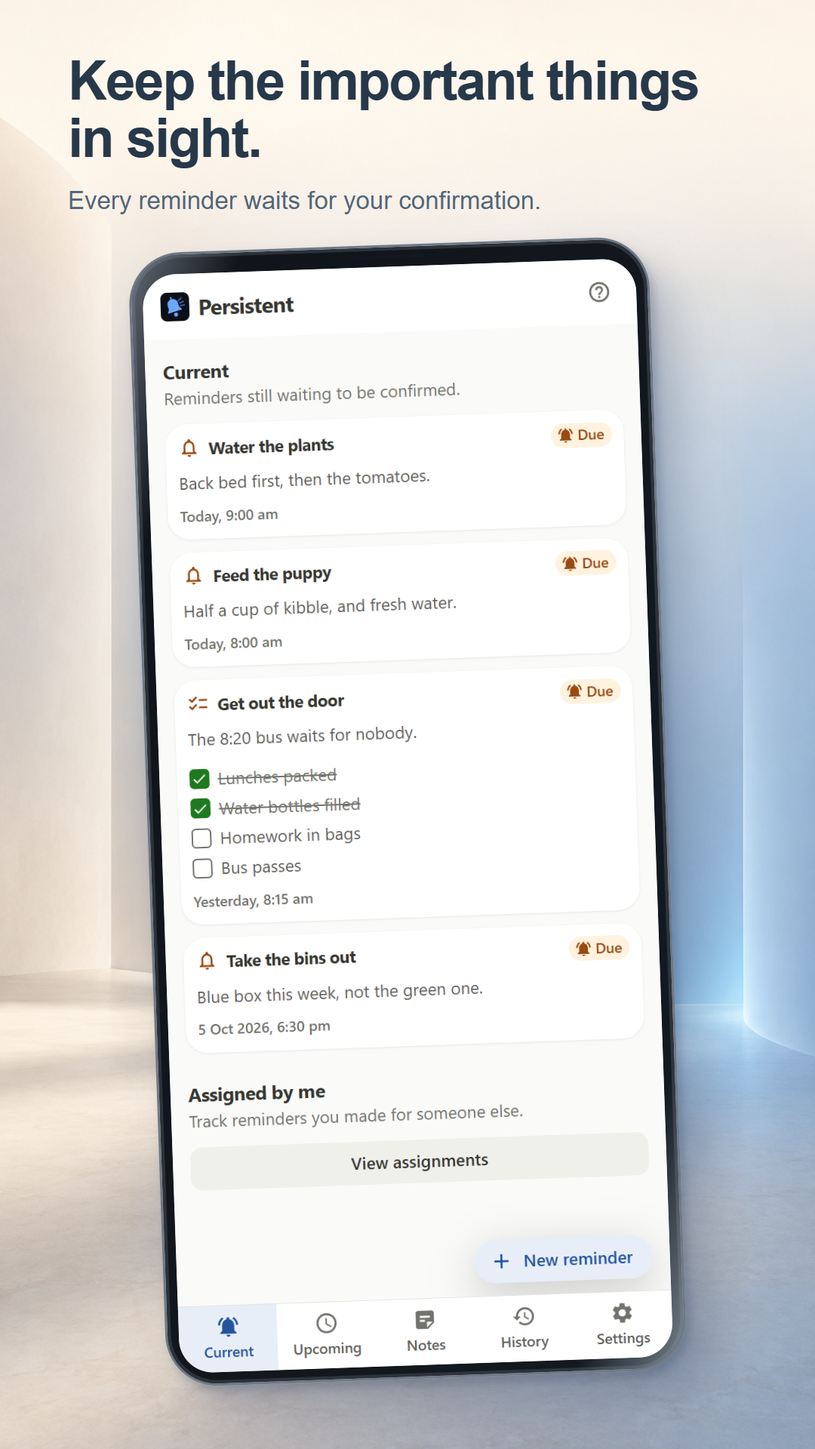
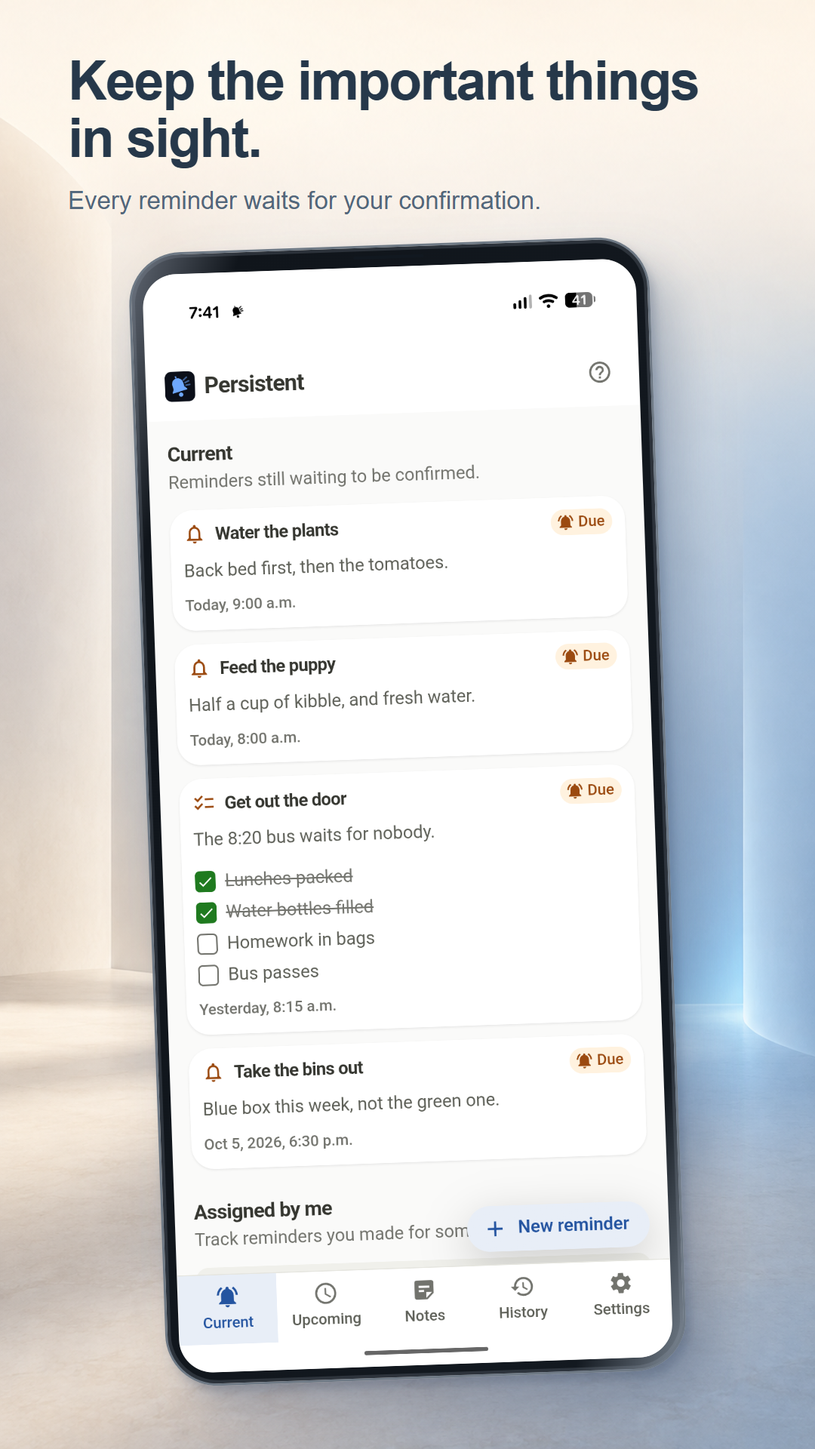
Refresh Play screenshots with native notifications and escalation
Capture all eight views on the isolated Pixel demo app with real status and gesture bars. Put returning notifications and ignored-reminder escalation near the start of the carousel, without duplicate reminders, unrelated notification icons, or theme names in image copy.

Update the repeatable capture workflow, listing gallery, root embeds, mobile guidance and screenshot skill. Reviewed desktop and notification contracts, auth/data isolation, environment settings, build descriptors and script comments. Native device data stays synthetic; no personal app data or domain queries change. Store checks and repository validation pass. Align the development SDK with the existing Android overlay.

diff --git a/scripts/dev/render-store-assets.ts b/scripts/dev/render-store-assets.ts
@@ -42,7 +42,7 @@ const review = `<!doctype html><html lang="en"><meta charset="utf-8"><title>Pers
 <style>
 * { box-sizing: border-box; } body { margin: 0; padding: 28px; width: 1440px; height: 730px; background: #eef0f2; color: #26384a; font: 16px Arial, sans-serif; }
 h1 { font-size: 26px; margin: 0 0 16px; } h2 { font-size: 20px; margin: 20px 0 12px; }
-.play { display: grid; grid-template-columns: repeat(6,1fr); gap: 14px; }
+.play { display: grid; grid-template-columns: repeat(${manifest.play.length},1fr); gap: 14px; }
 .desktop { display: grid; grid-template-columns: repeat(4,1fr); gap: 14px; }
 figure { margin: 0; } img { width: 100%; display: block; border-radius: 6px; }
 .play img { height: 390px; object-fit: contain; } .desktop img { height: 178px; object-fit: contain; }

diff --git a/scripts/dev/store-assets.ts b/scripts/dev/store-assets.ts
@@ -92,6 +92,7 @@ function check(): void {
     if (store !== 'play' && store !== 'microsoft') continue
     if (selectedStore && selectedStore !== store) continue
     if (shots.length < 4) throw new Error(`${store}: expected at least four curated screenshots`)
+    if (store === 'play' && shots.length > 8) throw new Error('play: the carousel supports at most eight screenshots')
     for (const shot of shots) {
       const png = readFileSync(resolve('store-assets', shot.file))
       const { width, height } = validateStoreImage(png, store)

diff --git a/store-assets/README.md b/store-assets/README.md
@@ -20,22 +20,86 @@ Sign in to that account on the local development origin. The development email-c
 
 ## Google Play
 
-Use the existing shared Paseo tab. Set its viewport to **448 x 998 CSS pixels**. Capture these six scenarios in manifest order:
+Use the isolated demo Android app on the physical phone, following the native
+capture setup below. Capture the full display for all eight images, including the
+real status area and gesture bar. Both bars must be readable against the selected
+theme, and unrelated notification icons must be absent. Do not add simulated
+system chrome or hide another app's notifications without permission. Capture
+these six app scenarios; the manifest determines final carousel order:
 
 1. Current, Enjoy Light. The plants, puppy, and part-completed morning checklist are visible.
 2. Open “Get out the door” in its reading dialog, Enjoy Dark. Do not toggle items or Done.
 3. Edit “Take vitamin D”, Enjoy Light, showing the synthetic medicine name and 1000 IU dose. Do not save.
-4. Create a draft reminder and open Share, Enjoy Dark. Stage `alex@example.test` in the dialog without saving or sending an invitation. Use `browser_type` for controlled fields and verify their state; `browser_fill` can report success without updating React state.
+4. Create a draft reminder and open Share, Enjoy Dark. Stage `alex@example.test` in the dialog without saving or sending an invitation. Use ordinary input or the existing debug WebView endpoint for controlled fields and verify their state.
 5. Notes, Enjoy Light, showing “Trip packing”.
 6. Assigned by me, Enjoy Dark, showing the completed synthetic parcel pickup.
 
-Save the PNG image block from each Paseo screenshot to the `source` path in the manifest. The helper accepts base64 on stdin: `node --import tsx scripts/dev/store-assets.ts save store-assets/raw/android/...png`. It never logs image data. Keep raw captures alongside the final exports so future caption/frame edits do not require recapturing the UI.
+The final carousel also includes the real notification shade and alarm described
+below, immediately after Current, for eight images total. Eight is the Play
+carousel limit. Keep marketing copy focused on the feature; do not put theme
+names in the exported images. The notification image leads with the defining
+behavior: swiping a reminder away does not complete it, and it returns until the
+user explicitly confirms completion.
+
+Save each full native capture to the `source` path in the manifest after the RGB conversion below. For Paseo composition exports, the helper accepts base64 on stdin: `node --import tsx scripts/dev/store-assets.ts save store-assets/raw/android/...png`. It never logs image data. Keep raw captures alongside the final exports so future caption/frame edits do not require recapturing the UI.
 
 Run `npm run shots:render`. Navigate the Paseo tab to each generated HTML layout through Vite, for example `http://localhost:<web-port>/@fs/workspace/store-assets/render/00-current-light.html`. Set **720 x 1280 CSS pixels**, wait for the captured image to load, then screenshot. On the current Windows Paseo host, DPR 1.5 produces **1080 x 1920**. Check actual dimensions, rather than assuming the host's DPR. If another host differs, adjust the CSS viewport and renderer canvas together to produce the same export dimensions.
 
 The mockups use a small alternating angle and reusable CSS phone frame. The app pixels come exclusively from the raw screenshots. The saved background and generation prompt are in `marketing/`; reuse them for consistency. Google recommends avoiding device imagery and skew, but this carousel deliberately includes those stylized mockups at Ryan's request.
 
 After inspection, run `npm run shots:sync`. It validates all exports, copies the curated Play files into `../apps/mobile/store/graphics/screenshots/`, and removes superseded PNGs from that upload directory. README embeds the same files. Preserve native permission demonstration videos, which serve a separate purpose.
+
+### Real Android capture setup and native scenarios
+
+Use an explicitly authorized physical-device session and the `test-android-device`
+skill. Read the shared home-devices guide before connecting to `phone.home`;
+wireless debugging ports rotate. Keep the phone unlocked with the shared helper's
+temporary input keepalive, never by changing display or lock settings.
+
+Keep the Store app and its personal account intact. Use the separate direct-debug
+package, `ca.persistent.app`, with the protected demo account. In the existing Node
+development container, build with `PERSISTENT_ANDROID_DEV_URL=http://localhost:5173
+npm run android:build`, then install only the direct-debug APK. Forward the device's
+port 5173 to the local web port with `adb -s <serial> reverse tcp:5173 tcp:<web-port>`.
+Confirm the synthetic account in the app before proceeding. Enable notifications
+and display-over-other-apps only for this demo package through the ordinary Android
+permission screens. Both packages are named Persistent, so verify `ca.persistent.app`
+and the demo version on App Info before changing a Settings toggle.
+
+For the shade, expand the real Persistent notification group and the plant
+reminder until Done and Snooze are visible. Do not press either. Inspect for
+personal notifications and network names before saving an asset. Any crop or
+retouch needs an explicit framing decision; do not clear personal notifications
+or change network settings to clean up the shot.
+
+For the escalation alarm, select Enjoy Dark and let its native appearance synchronize. Create
+one temporary synthetic reminder named "Check the oven", with body "Take the tray
+out, then turn the oven off.", When set to Now, persistence set to Persistent,
+and escalation set to one minute. Use the ordinary app/API flow and leave the
+reminder unconfirmed until it actually escalates. Capture after the native launch
+animation settles, with Done, Snooze, and De-escalate visible. Verify there are no
+other app notification icons in the status bar. Then force-stop only the demo package
+to stop the sound promptly. Delete only the newly created reminder from the
+verified local demo account. Never press Done for a screenshot.
+
+Capture the actual screen with `adb -s <serial> exec-out screencap -p > <path>.png`.
+The Pixel 9 Pro source is 960 x 2142. Android captures are RGBA; run
+`scripts/dev/convert-store-capture.ps1` with `-InputPath` and `-OutputPath` to save
+the same dimensions and pixels as Store-compatible RGB. It uses the existing
+Windows image runtime. If RemoteSigned rejects a WSL UNC script, execute a
+reviewed copy from an owned Windows TEMP path, then remove that copy. Do not
+change execution policy or install an image tool.
+
+Use the saved native PNG in the manifest and render it through Paseo in the same
+phone composition as the app screens. After capturing, force-stop the demo app,
+remove this session's ADB reverse/forward mappings and on-device inspection files,
+and stop its owned keepalive. Leave the Store app, personal data, pairing keys,
+and original display timeout unchanged.
+
+Inspect immediately before each capture: live Android notifications can arrive
+while waiting. Keep only Persistent's notification icon and the ordinary Android
+status indicators in exported native screenshots. Obtain approval for any retouch
+or unrelated notification dismissal; an already clean real capture is preferable.
 
 ## Microsoft Store
 
@@ -66,9 +130,13 @@ Verify the original settings and Store process are restored, then remove only th
 
 ## Verify and review
 
-Run `npm run shots:check` and `npm run validate`. Generate the contact sheet without a browser using Windows PowerShell 7: `scripts/dev/render-store-review.ps1 -AssetsRoot <absolute Windows path to store-assets>`. It reads the saved PNGs and writes `review.png`, without changing the store exports. The HTML renderer also writes `render/review.html` for interactive review. Inspect all ten final images, not just dimensions: no clipped dialogs, loading frames, missing labels, personal data, stale themes, or duplicate reminder cards. Keep Play text above the phone and concise. Record the tested source revision and capture date when refreshing; do not upload screenshots for a theme that has not shipped without coordinating the app update.
+Run `npm run shots:check` and `npm run validate`. Generate the contact sheet without a browser using Windows PowerShell 7: `scripts/dev/render-store-review.ps1 -AssetsRoot <absolute Windows path to store-assets>`. It reads the saved PNGs and writes `review.png`, without changing the store exports. The HTML renderer also writes `render/review.html` for interactive review. Both previews adapt to the manifest's Play image count. Inspect every final image, not just dimensions: no clipped dialogs, loading frames, missing labels, personal data, stale themes, or duplicate reminder cards. Keep Play text above the phone and concise. Record the tested source revision and capture date when refreshing; do not upload screenshots for a theme that has not shipped without coordinating the app update.
 
-The Microsoft set was captured October 10, 2026 from the development working tree. Microsoft uses the sideloaded 0.5.8.2 native app; Play app content is browser-captured, with no native alarm or notification-shade claim.
+The Microsoft set was captured October 10, 2026 from the development working tree,
+using the sideloaded 0.5.8.2 native app. Play uses eight full-display Pixel 9 Pro captures. The six app views include
+the theme-aware Android status icon and gesture bar fix at `5310573`; the
+notification and escalation captures were taken from source revision `b3c0500`.
+The native capture provenance is recorded in `raw/android/native/README.md`.
 
 ## Publishing an approved refresh
 

diff --git a/apps/mobile/store/listing.md b/apps/mobile/store/listing.md
@@ -111,7 +111,7 @@ apps/mobile/store/listing.md --check` before publishing.
 | --- | --- | --- |
 | App icon | 512×512 PNG, 32-bit, no transparency | ✅ `graphics/play-icon.png` |
 | Feature graphic | 1024×500 PNG/JPG, no transparency | ✅ `graphics/feature-graphic.png` |
-| Phone screenshots | 2–8, min 320px, 16:9 or 9:16 | ✅ 6 in `graphics/screenshots/` (see below) |
+| Phone screenshots | 2–8, min 320px, 16:9 or 9:16 | ✅ 8 in `graphics/screenshots/` (see below) |
 | 7" / 10" tablet screenshots | optional | ❌ optional |
 
 Sources are `graphics/*.svg`; re-render with
@@ -120,14 +120,15 @@ Sources are `graphics/*.svg`; re-render with
 ### Capturing more
 
 Use the [repeatable store screenshot workflow](../../../store-assets/README.md).
-It prepares a protected synthetic demo account, captures current app screens in
-the shared Paseo browser, and renders reusable phone mockups. `npm run shots`
+It prepares a protected synthetic demo account, captures all eight source screens
+in the isolated Android demo app, and renders reusable phone mockups through the
+shared Paseo browser. `npm run shots`
 prints the workflow entrypoint; it does not launch or install a browser.
 
 **Always capture against the demo account, never a real one.** The owner's real
 account contains actual prescriptions; a Play listing is public and permanent.
-Native alarm and notification-shade shots require a separately requested device
-session. Keep native permission demonstration videos separate from the carousel.
+Native captures require a separately requested device session. Every image
+includes the real status area and gesture bar, with no unrelated notification icons. Keep native permission demonstration videos separate from the carousel.
 
 ---
 
@@ -216,30 +217,37 @@ forms before marking this complete.
 
 ## Captured screenshots
 
-All six live in `graphics/screenshots/`, captured in Paseo against the seeded demo
-account with synthetic health data only. The Enjoy Light/Dark app captures are
-composed inside reusable phone mockups. All exports are 1080 x 1920 RGB PNGs.
+All eight live in `graphics/screenshots/`, using the seeded demo account with
+synthetic health data only. All eight are full-display Pixel 9 Pro captures with
+the real status area and gesture bar, and no unrelated notification icons.
+All are composed in Paseo
+inside reusable phone mockups, with 1080 x 1920 RGB PNG exports. Marketing copy
+describes the feature without theme names.
 Ordered as they should appear in Play:
 
 | File | Shows | Theme |
 | --- | --- | --- |
 | `00-current-light.png` | Current reminders for plants, puppy, and the morning checklist | Enjoy Light |
-| `01-checklist-dark.png` | Reading dialog with a part-completed checklist and reminder controls below it | Enjoy Dark |
-| `02-medication-light.png` | Synthetic vitamin reminder editor with medicine name and 1000 IU dose | Enjoy Light |
-| `03-sharing-dark.png` | Share or assign dialog with a staged sample recipient | Enjoy Dark |
-| `04-notes-light.png` | Trip-packing note checklist, without an alarm | Enjoy Light |
-| `05-assigned-dark.png` | Assigned by me status with a synthetic completion record | Enjoy Dark |
+| `01-notification-shade.png` | Four distinct reminders, native Done and Snooze actions, and copy explaining that swiped notifications return until confirmed | Android system |
+| `02-alarm-dark.png` | Real ignored-reminder escalation into an alarm with Done, Snooze, and De-escalate controls | Enjoy Dark |
+| `03-checklist-dark.png` | Reading dialog with a part-completed checklist and reminder controls below it | Enjoy Dark |
+| `04-medication-light.png` | Synthetic vitamin reminder editor with medicine name and 1000 IU dose | Enjoy Light |
+| `05-sharing-dark.png` | Share or assign dialog with a staged sample recipient | Enjoy Dark |
+| `06-notes-light.png` | Trip-packing note checklist, without an alarm | Enjoy Light |
+| `07-assigned-dark.png` | Assigned by me status with a synthetic completion record | Enjoy Dark |
 
-The root README embeds `00`, `01`, and `03` from this directory, without separate
-copies. Native alarm and notification-shade shots were replaced with current app
-screens for this browser-based refresh. Native permission videos remain separate.
+The root README embeds `00`, `03`, and `05` from this directory, without separate
+copies. Native permission videos remain separate.
 No screen repeats a reminder as two near-identical cards.
 
 ### Regenerating
 
 Use [store-assets/README.md](../../../store-assets/README.md) and its manifest.
-Prepare the synthetic fixture once, capture the six app screens through the shared
-Paseo browser, then render the phone layouts and capture their final exports:
+Prepare the synthetic fixture, capture all eight screens in the isolated Android
+demo app through the authorized device session, then render
+the phone layouts and capture their final exports. If waiting has allowed another
+scheduled firing to create duplicate demo cards, refresh the protected fixture
+before capture and synchronize the demo app again:
 
 ```sh
 npm run shots:prepare -- --email=ryan.ewen+persistentdemo@gmail.com
@@ -248,7 +256,7 @@ npm run shots:check
 npm run shots:sync
 ```
 
-`shots:prepare` runs in the isolated development stack; the browser capture steps
+`shots:prepare` runs in the isolated development stack; the capture and render steps
 between commands are documented in the workflow. `shots:sync` replaces the local
 upload directory only. Publish the listing separately when requested.
 

diff --git a/store-assets/raw/android/native/README.md b/store-assets/raw/android/native/README.md
@@ -1,0 +1,42 @@
+# Native Android capture provenance
+
+Captured October 10, 2026 on Ryan's Pixel 9 Pro using native source `b3c0500` for the shade and alarm. The six app views use
+the theme-aware status icon and gesture bar fix committed as `5310573`. The separate direct-debug package is `ca.persistent.app`, with the
+local debug version label 0.21.1. It loads the local development app through an
+ADB reverse connection and is signed in only to the protected synthetic demo
+account. The installed Store package and its signed-in personal account were
+preserved.
+
+- `00-current-light.png`, `03-checklist-dark.png`, `04-medication-light.png`,
+  `05-sharing-dark.png`, `06-notes-light.png`, and `07-assigned-dark.png`: actual
+  full-display app screens with the real status area and gesture bar. Light themes
+  use dark system icons, and dark themes use light icons. Only Persistent's
+  notification icon is present. The sharing recipient is staged in an unsaved
+  draft, and the medication editor was not saved.
+- `01-notification-shade.png`: actual Android shade with four distinct demo
+  reminders, and the plant reminder's real Done and Snooze controls expanded.
+  Ryan approved retaining the full shade, including the Wi-Fi network name.
+- `02-alarm-dark.png`: actual native escalation of a temporary "Check the oven"
+  reminder, created through the ordinary authenticated local API with Persistent
+  notifications and a one-minute escalation. It remained unconfirmed and then
+  showed the real alarm with Done, Snooze, and De-escalate. Its native appearance
+  was synchronized from Enjoy Dark. The demo app was force-stopped promptly after
+  capture, and only that newly created reminder was deleted. The replacement
+  capture has only Persistent's notification icon, with no Paseo or other app icon.
+
+All eight source captures are 960 x 2142. They were reencoded from opaque RGBA to
+24-bit RGB through `convert-store-capture.ps1`, without cropping, scaling, or
+retouching. Final phone compositions were captured in the shared Paseo browser
+at 720 x 1280 CSS pixels and DPR 1.5, producing 1080 x 1920 exports.
+
+No reminder was completed by a capture action. Notifications and overlay access
+were enabled only for the demo package using ordinary Android permission screens.
+Exact-alarm and full-screen-intent readiness also reported enabled. This session
+observed native notification actions and a real one-minute escalation into the
+alarm surface; it did not
+qualify offline delivery, lock-screen delivery, or swipe-return reliability.
+
+Cleanup: demo app force-stopped, temporary ADB forward/reverse mappings removed,
+on-device inspection XML removed, owned keepalive stopped, and phone returned to
+Paseo. The original 120000 ms display timeout was verified unchanged. The separate
+demo app remains installed and stopped for future refreshes.

diff --git a/store-assets/play/README.md b/store-assets/play/README.md
@@ -1,6 +1,6 @@
 # Google Play screenshot review
 
-Six 1080 x 1920 RGB PNGs, with real app captures and synthetic data. Both Enjoy themes are represented. Uploading is a separate step.
+Eight 1080 x 1920 RGB PNGs, with real app captures and synthetic data. Includes the real Android notification shade and escalation alarm. Uploading is a separate step.
 
 ## Keep the important things in sight.
 
@@ -8,32 +8,44 @@ Every reminder waits for your confirmation.
 
 ![Enjoy Light Current view with plants, puppy, and a part-completed morning checklist.](00-current-light.png)
 
+## Swipe it away? It comes back.
+
+Reminders return until you confirm they're done.
+
+![Real Pixel 9 Pro notification shade with four distinct synthetic reminders and expanded plant reminder Done and Snooze actions.](01-notification-shade.png)
+
+## Ignore it too long, it escalates.
+
+Unconfirmed reminders can become a ringing alarm.
+
+![Real Pixel 9 Pro escalated alarm for the synthetic Check the oven reminder, with native Done, Snooze, and De-escalate controls.](02-alarm-dark.png)
+
 ## Finish the task. Then mark it done.
 
 Checklists, notes, and controls in one clear view.
 
-![Enjoy Dark reading dialog with a morning checklist and Done and Snooze controls below it.](01-checklist-dark.png)
+![Enjoy Dark reading dialog with a morning checklist and Done and Snooze controls below it.](03-checklist-dark.png)
 
 ## Make room for your daily routines.
 
 Medication reminders with names and doses.
 
-![Synthetic vitamin D reminder editor in Enjoy Light with a 1000 IU dose.](02-medication-light.png)
+![Synthetic vitamin D reminder editor in Enjoy Light with a 1000 IU dose.](04-medication-light.png)
 
 ## Share the reminder. Stay on the same page.
 
 Plan together, or assign a task to one person.
 
-![Enjoy Dark sharing dialog with a staged synthetic recipient, Alex.](03-sharing-dark.png)
+![Enjoy Dark sharing dialog with a staged synthetic recipient, Alex.](05-sharing-dark.png)
 
 ## A place for the things you want to keep.
 
 Notes and checklists, without an alarm.
 
-![Enjoy Light Notes view showing a trip-packing checklist.](04-notes-light.png)
+![Enjoy Light Notes view showing a trip-packing checklist.](06-notes-light.png)
 
 ## Know when it is done.
 
 See progress on tasks you have assigned.
 
-![Enjoy Dark Assigned by me view with synthetic parcel pickup completion.](05-assigned-dark.png)
+![Enjoy Dark Assigned by me view with synthetic parcel pickup completion.](07-assigned-dark.png)

diff --git a/.agents/skills/store-screenshots/SKILL.md b/.agents/skills/store-screenshots/SKILL.md
@@ -7,7 +7,10 @@ Read [the capture workflow](../../../store-assets/README.md). The manifest owns 
 
 Prepare the dedicated demo fixture in the isolated development database. Verify the signed-in account before capturing; never seed or capture a personal account. Reuse the existing seeded scenarios, including the synthetic vitamin dose and sample recipient. Do not complete reminders or send invitations for a screenshot.
 
-Use the shared Paseo browser for app screens and mockup rendering. If the host cannot paint a screenshot, request activation of the existing tab and continue independent work. Do not install or launch a separate browser.
+Use full-display captures from the isolated Android demo app for every Play source
+screen, including the real status area and gesture bar. Verify readable system
+icons in both themes and no unrelated app notification icons. Use the shared Paseo
+browser for mockup rendering. If the host cannot paint a screenshot, request activation of the existing tab and continue independent work. Do not install or launch a separate browser.
 
 Microsoft images must contain the actual Windows tray flyout and its native chrome. Use the desktop skill's installation bridge, then the isolated capture session helper. Preserve the original settings and Store app, restore them after capture, and remove the separate dev package. Use the default 420 x 960 DIP tray placement and capture the real wallpaper and taskbar around the flyout at native resolution. Hide unrelated windows and other app tray icons before capture; do not substitute a plain canvas or retouch icons without approval. Restore any temporary window changes.
 

diff --git a/apps/mobile/AGENTS.md b/apps/mobile/AGENTS.md
@@ -76,10 +76,13 @@ Use the [repeatable store capture workflow](../../store-assets/README.md) and
 `.agents/skills/store-screenshots/SKILL.md`. `npm run shots` prints the entrypoint;
 `shots:prepare` creates only the protected synthetic demo fixture, `shots:render`
 generates reusable phone layouts, and `shots:check` validates final PNG exports.
-Capture app screens and layouts in the shared Paseo browser. Do not install a
-standalone browser for this workflow. Native alarm and notification-shade images
-require an explicitly requested device session; this refresh uses current app
-screens instead. Keep native permission demonstration videos separate.
+Capture all Play source screens in an explicitly requested device session using
+the isolated demo Android app. Preserve the real status area and gesture bar on
+every image, with readable system icons and no unrelated notification icons.
+Render the marketing layouts in the shared Paseo browser; do not install a
+standalone browser for this workflow. Follow the workflow's permission, account, and cleanup
+steps; preserve the signed-in Store app. Keep native permission demonstration
+videos separate.
 
 `store/listing.md` owns the listing copy and published screenshot set. The manual
 `play-listing` workflow (`scripts/play-publish.mjs --listing`) uploads both, only

diff --git a/README.md b/README.md
@@ -33,8 +33,8 @@
 <!-- These are the same synthetic-data mockups used by the Play listing. -->
 <p align="center">
   <img src="apps/mobile/store/graphics/screenshots/00-current-light.png" alt="Current reminders in Enjoy Light" height="400">
-  <img src="apps/mobile/store/graphics/screenshots/01-checklist-dark.png" alt="Checklist and reminder controls in Enjoy Dark" height="400">
-  <img src="apps/mobile/store/graphics/screenshots/03-sharing-dark.png" alt="Sharing dialog with a staged sample recipient in Enjoy Dark" height="400">
+  <img src="apps/mobile/store/graphics/screenshots/03-checklist-dark.png" alt="Checklist and reminder controls in Enjoy Dark" height="400">
+  <img src="apps/mobile/store/graphics/screenshots/05-sharing-dark.png" alt="Sharing dialog with a staged sample recipient in Enjoy Dark" height="400">
 </p>
 
 Most reminder apps fire once and are easy to swipe away. Persistent keeps
